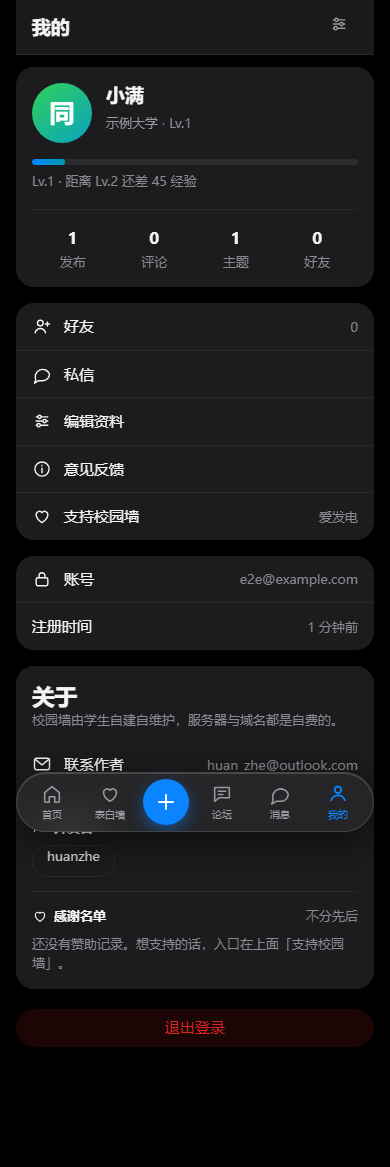
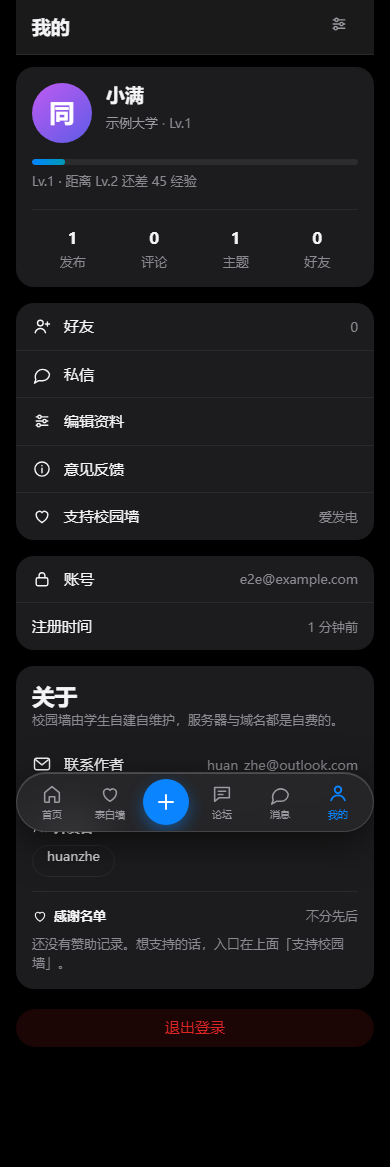
fix(admin): 「首页」视图漏在 VIEW_IDS 白名单外，导致点进去一片空白
现场：后台点左侧「首页」，内容区空白、也点不动任何东西。

原因：setView() 用写死的 VIEW_IDS 列表控制「哪个 view 可见」：
  VIEW_IDS.forEach((v) => { const section = $('#view-' + v); if (section) section.hidden = v !== view; })
新增「首页」视图时只加了导航按钮、#view-home 容器、VIEW_META 与 renderHome，
**忘了把 'home' 加进这个列表** —— 于是 #view-home 永远保持初始的 hidden，
而其它视图全被隐藏：看起来就是「空白 + 点不动」。渲染本身是好的，只是永远不显示。

- VIEW_IDS 补上 'home'
- admin-e2e 补 3 条断言（17 → 20）：切到首页 → 视图不隐藏且编辑器可见 → 可输入 →
  点保存（确认框）→ 前台 /api/home 能读到刚写的内容

npm run verify 全绿：api 184 / 升级 29 / 爱发电 38 / Turnstile 19 / Brevo 48 /
巡检 75 / db-check / e2e 33 / 后台 20。

Changed region(s): [[0.0615, 0.0617, 0.2462, 0.1234]]

diff --git a/server/public/admin.html b/server/public/admin.html
@@ -534,7 +534,7 @@ a { color: var(--accent); }
   };
 
   // 视图顺序即导航顺序：setView 用它做显隐与标题分发
-  const VIEW_IDS = ['overview', 'queue', 'reports', 'users', 'titles', 'announcements', 'schools', 'afdian', 'audit', 'feedback'];
+  const VIEW_IDS = ['overview', 'queue', 'reports', 'users', 'titles', 'home', 'announcements', 'schools', 'afdian', 'audit', 'feedback'];
   // 队列四类型：帖子 / 评论（表白墙）与 主题 / 回复（论坛）共用同一个视图
   const QUEUE_TABS = [['posts', '帖子'], ['comments', '评论'], ['threads', '主题'], ['replies', '回复']];
   const FORUM_TYPES = ['threads', 'replies'];
